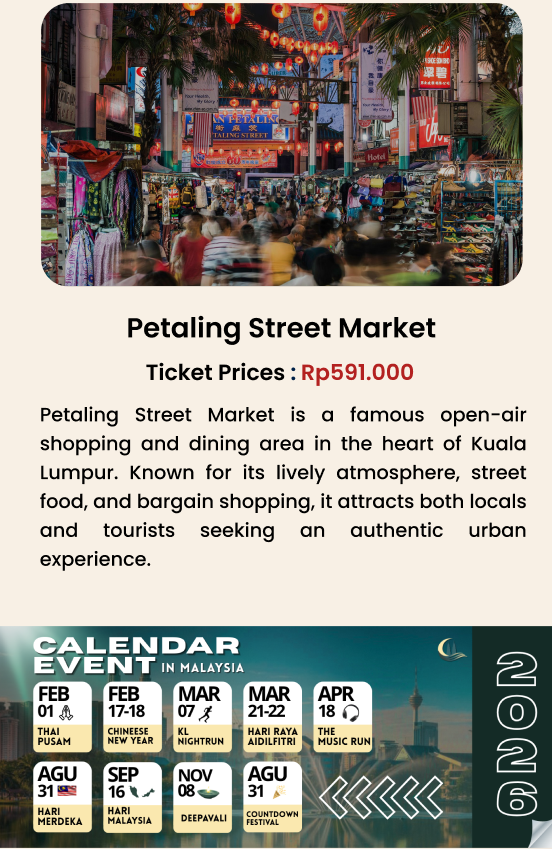
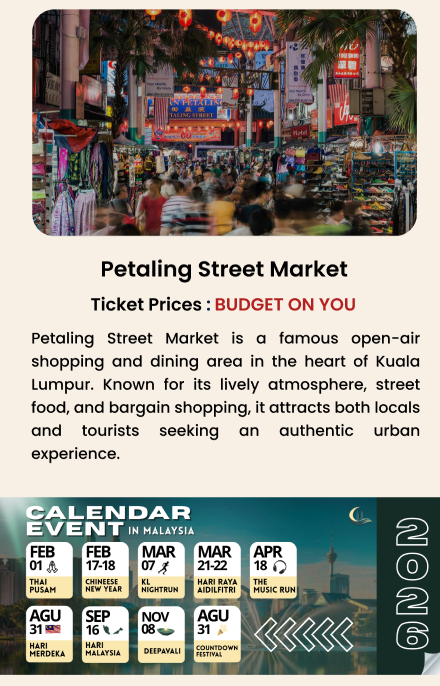
Update project files

diff --git a/lib/tourism.dart b/lib/tourism.dart
@@ -107,7 +107,7 @@ class _TourismPageState extends State<TourismPage> {
               const SizedBox(height: 25),
               
               Image.asset(
-                'assets/images/breakdown-price.png',
+                'assets/images/price-breakdown.png',
                 width: double.infinity,
                 fit: BoxFit.fitWidth,
               ),
